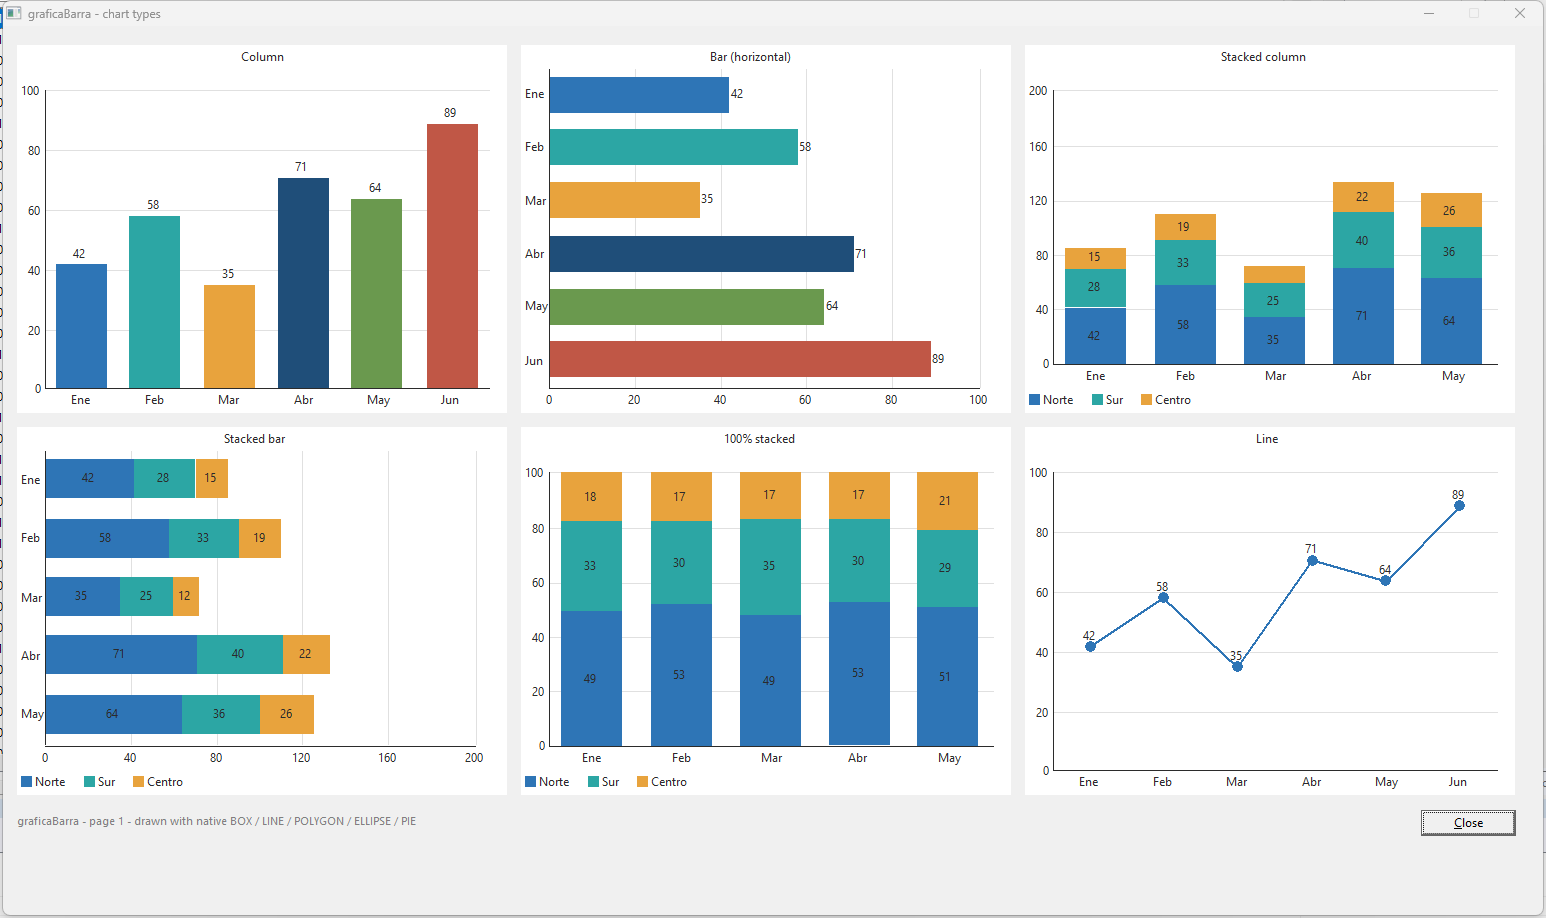
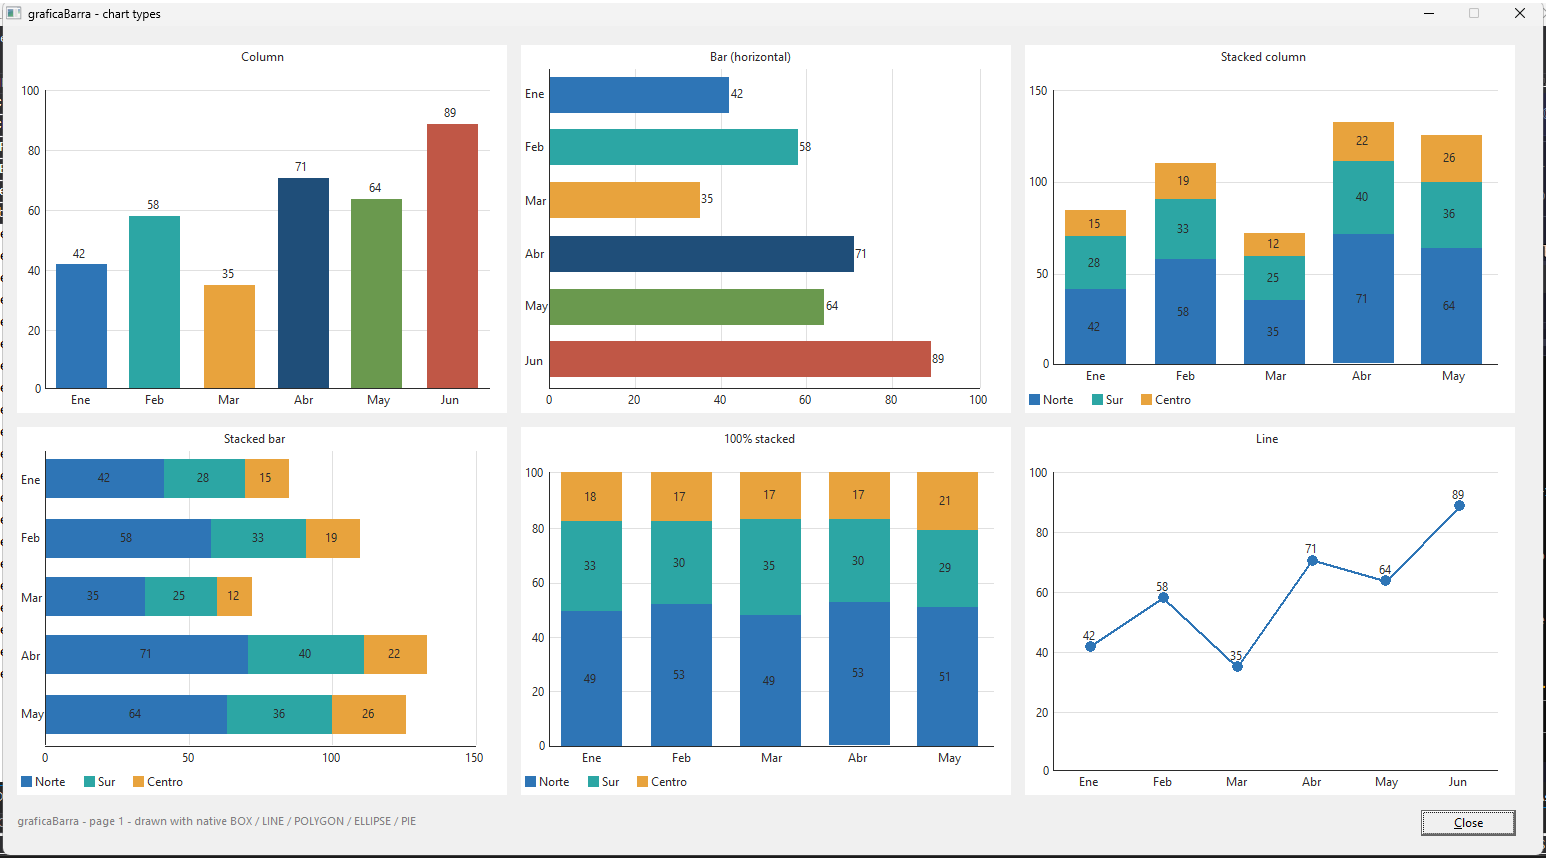
graficaBarra docs: the reference tables catch up, and the shots are re-taken
The developer's reference listed the properties from before any of this: no
SeriesPlot, no NoVal, and TextW/TextH described as the only way to move the
text. It has them now, with FontSize named as the one property to reach for
when a chart's text is the wrong size and TextW/TextH demoted to the case the
class cannot see - a font given to the window or the band instead.

The class guide's template map mentions the SetSeriesPlot the extensions now
emit, and the instance size goes from about 6.5 KB to about 7: NoVal is 8 x 48
bytes and SeriesPlot another 8 longs.

docs/graficaBarra-types1..3.png were still the old axis on five of the eighteen
panels - the debt the scale commit wrote down. Re-shot against the current
class: stacked column, stacked bar and stacked area now read 0..150 in fifties
rather than 0..200 in forties, grouped fits 0..80 for a maximum of 80, the
negatives sit in -40..80, and the two-decimal bar in 0..40. The other thirteen
panels are the same chart they always were.

diff --git a/docs/graficaBarra-reference.html b/docs/graficaBarra-reference.html
@@ -390,8 +390,11 @@ RptGraph.TextH = <span class="t">185</span></pre>
     <tr><td><code>DonutPct</code> / <code>DonutText</code> / <code>HoleColor</code></td><td>LONG 55 / CSTRING(32) '' / LONG COLOR:None</td><td><span class="en">The hole as a percent of the diameter, an optional caption in it, and its fill (None follows PlotColor, then BackColor, then white).</span><span class="es">El agujero como porcentaje del diámetro, un texto opcional dentro, y su relleno (None sigue a PlotColor, luego BackColor, luego blanco).</span></td></tr>
     <tr><td><code>ColorText</code></td><td>BYTE 1</td><td><span class="en">1 = re-color text with <code>SETFONT(0,&hellip;)</code> so <code>TextColor</code> is actually honoured. <code>SHOW</code> takes its color from the current target's <em>font</em>, not from <code>SETPENCOLOR</code> &mdash; that is why v1 drew all text in black. Set 0 to leave the target's font alone.</span><span class="es">1 = recolorea el texto con <code>SETFONT(0,&hellip;)</code> para que <code>TextColor</code> se respete de verdad. <code>SHOW</code> toma el color de la <em>fuente</em> del destino actual, no de <code>SETPENCOLOR</code> &mdash; por eso v1 dibujaba todo el texto en negro. Ponlo en 0 para no tocar la fuente del destino.</span></td></tr>
     <tr><td><code>NSeries</code> / <code>SeriesName[]</code> / <code>SeriesColor[]</code></td><td>LONG 0 / STRING(32) / LONG</td><td><span class="en">The series table (max 8), if you would rather fill it in directly than call <code>AddSeries</code>. 0 or 1 both mean "one series".</span><span class="es">La tabla de series (máx. 8), si prefiere rellenarla directamente en vez de llamar a <code>AddSeries</code>. Tanto 0 como 1 significan "una serie".</span></td></tr>
+    <tr><td><code>SeriesPlot[]</code></td><td>LONG <code>Plot:Default</code></td><td><span class="en">How one series is drawn, whatever <code>ChartType</code> says: <code>Plot:Bar</code> or <code>Plot:Line</code>. Set it with <code>SetSeriesPlot(series, plot)</code>, or as the third parameter of <code>AddSeries</code>. Bars for sales and a line for the trend, over the one value axis &mdash; <code>Chart:Column</code>, <code>Chart:Line</code> and <code>Chart:Scatter</code> only.</span><span class="es">Cómo se dibuja una serie, diga lo que diga <code>ChartType</code>: <code>Plot:Bar</code> o <code>Plot:Line</code>. Se fija con <code>SetSeriesPlot(serie, forma)</code>, o como tercer parámetro de <code>AddSeries</code>. Barras para las ventas y una línea para la tendencia, sobre el mismo eje &mdash; solo <code>Chart:Column</code>, <code>Chart:Line</code> y <code>Chart:Scatter</code>.</span></td></tr>
+    <tr><td><code>NoVal[]</code></td><td>BYTE 0</td><td><span class="en">1 = that series has <b>no value</b> for that category: no bar, no marker, and the line <b>breaks</b> instead of diving to zero. <code>SetNoValue(series, category)</code> sets it, <code>HasValue</code> reads it. A row of periods with an average bar on the end is the case &mdash; the bar belongs on the chart, the trend does not run out to it.</span><span class="es">1 = esa serie <b>no tiene valor</b> para esa categoría: sin barra, sin marcador, y la línea <b>se corta</b> en vez de caer a cero. <code>SetNoValue(serie, categoría)</code> lo fija y <code>HasValue</code> lo lee. Una fila de períodos con una barra de promedio al final es el caso &mdash; la barra va en el gráfico, la tendencia no llega hasta ella.</span></td></tr>
     <tr><td><code>BarGapPct</code></td><td>LONG 30</td><td><span class="en">Gap between category slots, percent of one slot. With several series the room left over is split between them.</span><span class="es">Separación entre huecos de categoría, porcentaje de un hueco. Con varias series, lo que queda se reparte entre ellas.</span></td></tr>
-    <tr><td><code>TextW</code> / <code>TextH</code></td><td>LONG 0</td><td><span class="en">Char cell override (0 = auto per target).</span><span class="es">Anulación de celda de carácter (0 = automático por destino).</span></td></tr>
+    <tr><td><code>FontName</code> / <code>FontSize</code> / <code>FontStyle</code></td><td>CSTRING('') / LONG 0 / LONG 0</td><td><span class="en">The chart's own type. Blank / 0 = whatever the target is using; each overrides on its own, so a size alone keeps the typeface. <b><code>FontSize</code> also scales the layout</b> while <code>TextW</code>/<code>TextH</code> are 0, so labels keep their spacing and thin themselves out rather than collide &mdash; it is the one property to reach for to make a chart's text bigger or smaller.</span><span class="es">La tipografía propia del gráfico. En blanco / 0 = la que use el destino; cada una pisa por su cuenta, así que un tamaño solo conserva la tipografía. <b><code>FontSize</code> además escala la maquetación</b> mientras <code>TextW</code>/<code>TextH</code> estén en 0, así las etiquetas conservan su espaciado y se ralean solas en vez de pisarse &mdash; es la propiedad para agrandar o achicar el texto de un gráfico.</span></td></tr>
+    <tr><td><code>TextW</code> / <code>TextH</code></td><td>LONG 0</td><td><span class="en">Char cell override. 0 = 4 &times; 9 dialog units on a window, 62 &times; 130 thousandths on a report, both scaled by <code>FontSize</code>/9. Set them by hand only when you gave the <b>window or the band</b> a bigger font instead &mdash; the class cannot see that one.</span><span class="es">Anulación de la celda de carácter. 0 = 4 &times; 9 unidades de diálogo en ventana, 62 &times; 130 milésimas en informe, escaladas por <code>FontSize</code>/9. Fíjelas a mano solo si le cambió la fuente a la <b>ventana o a la banda</b> &mdash; eso la clase no lo ve.</span></td></tr>
     <tr><td><code>EraseFirst</code></td><td>BYTE 1</td><td><span class="en">1 = <code>Paint</code> wipes the placeholder's own rectangle before it draws. This matters on <strong>reports</strong>: a band keeps every primitive ever drawn into it, so painting a second chart over the same placeholder used to land <em>on top</em> of the first. <code>ClearAll()</code> throws the <em>data</em> away and can never un-draw ink, so the erase has to happen at paint time, where the target and the rectangle are both known. It is a real <code>BLANK</code> of that rectangle, not a box painted over the top &mdash; the old primitives leave the band, so the PDF gets smaller rather than bigger. Set 0 when you deliberately want to overlay two charts.</span><span class="es">1 = <code>Paint</code> borra el rectángulo del marcador antes de dibujar. Importa en los <strong>informes</strong>: una banda conserva todas las primitivas que se hayan dibujado en ella, así que pintar un segundo gráfico sobre el mismo marcador caía <em>encima</em> del primero. <code>ClearAll()</code> tira los <em>datos</em> y nunca puede des-dibujar la tinta, por eso el borrado ocurre al pintar, donde se conocen el destino y el rectángulo. Es un <code>BLANK</code> real de ese rectángulo, no una caja pintada encima &mdash; las primitivas antiguas salen de la banda, así que el PDF se hace más pequeño, no más grande. Ponlo en 0 cuando quiera superponer dos gráficos a propósito.</span></td></tr>
     <tr><td><code>BackColor</code></td><td>LONG COLOR:None</td><td><span class="en">Whole-control background fill (None = leave transparent).</span><span class="es">Relleno de fondo de todo el control (None = deja transparente).</span></td></tr>
     <tr><td><code>PlotColor</code></td><td>LONG COLOR:None</td><td><span class="en">Plot-area fill.</span><span class="es">Relleno del área de trazado.</span></td></tr>

diff --git a/docs/graficaBarra-classes.html b/docs/graficaBarra-classes.html
@@ -208,7 +208,7 @@
 
     <h3>Fixed storage, no allocation</h3>
     <p>All storage is <code>DIM</code>'d in the class, so one instance is a fixed block of about
-    <b>6.5&nbsp;KB</b>. That is the number to keep in mind if you <code>NEW</code> a dashboard's worth of
+    <b>7&nbsp;KB</b>. That is the number to keep in mind if you <code>NEW</code> a dashboard's worth of
     them.</p>
     <table>
       <tr><th>Equate</th><th>Value</th><th>What it caps</th></tr>
@@ -262,7 +262,7 @@
 
     <h3>Almacenamiento fijo, sin reservas</h3>
     <p>Todo el almacenamiento está <code>DIM</code>ensionado en la clase, así que una instancia es un
-    bloque fijo de unos <b>6,5&nbsp;KB</b>. Es la cifra a tener presente si hace <code>NEW</code> de
+    bloque fijo de unos <b>7&nbsp;KB</b>. Es la cifra a tener presente si hace <code>NEW</code> de
     varios para un tablero.</p>
     <table>
       <tr><th>Equate</th><th>Valor</th><th>Qué limita</th></tr>
@@ -3199,6 +3199,7 @@ MiGrafica.Standard <span class="k">PROCEDURE</span>(<span class="k">STRING</span
           scaffolding.</td></tr>
       <tr><td><code>%ProcedureRoutines</code></td>
         <td><code>Refresh:Obj ROUTINE</code> — the <code>ClearAll</code> / <code>AddSeries</code> /
+          <code>SetSeriesPlot</code> (only for a series whose <b>Draw as</b> was set) /
           <code>AddBar</code>&nbsp;·&nbsp;<code>AddCat</code> / <code>Draw</code> sequence. Call it
           yourself (<code>DO Refresh:Obj</code>) after your data changes.</td></tr>
     </table>
@@ -3247,7 +3248,7 @@ MiGrafica.Standard <span class="k">PROCEDURE</span>(<span class="k">STRING</span
           propio de ABC.</td></tr>
       <tr><td><code>%ProcedureRoutines</code></td>
         <td><code>Refresh:Obj ROUTINE</code> — la secuencia <code>ClearAll</code> /
-          <code>AddSeries</code> / <code>AddBar</code>&nbsp;·&nbsp;<code>AddCat</code> /
+          <code>AddSeries</code> / <code>SetSeriesPlot</code> (solo si se puso <b>Draw as</b>) / <code>AddBar</code>&nbsp;·&nbsp;<code>AddCat</code> /
           <code>Draw</code>. Llámela usted (<code>DO Refresh:Obj</code>) cuando cambien sus datos.</td></tr>
     </table>
     <h3>Extensión de informe</h3>
